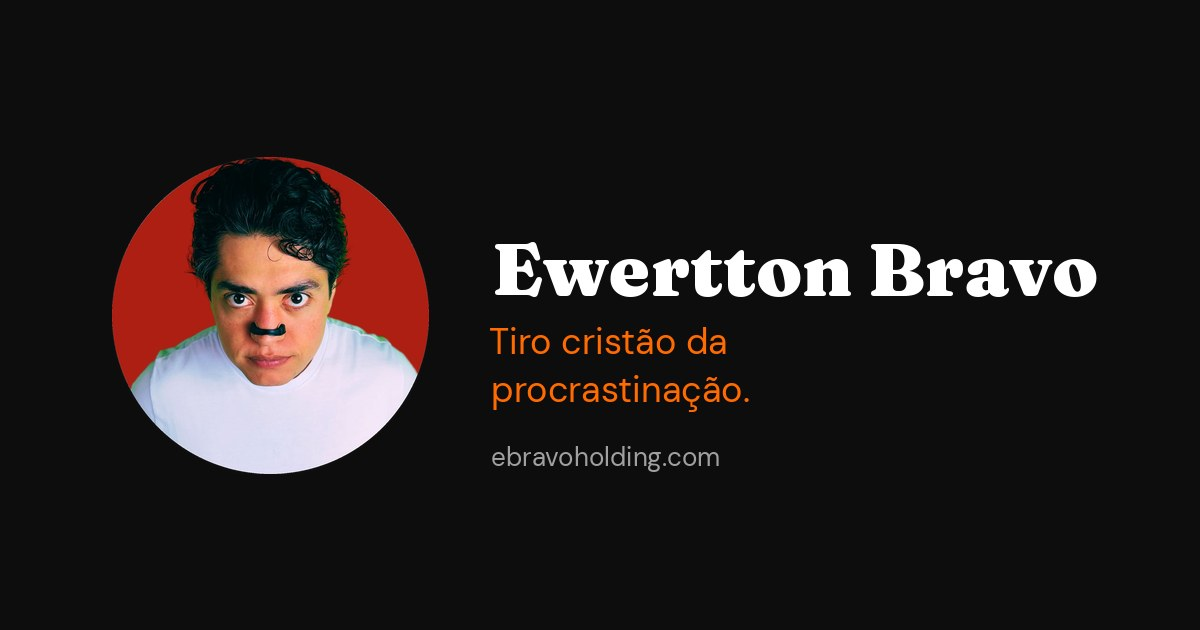
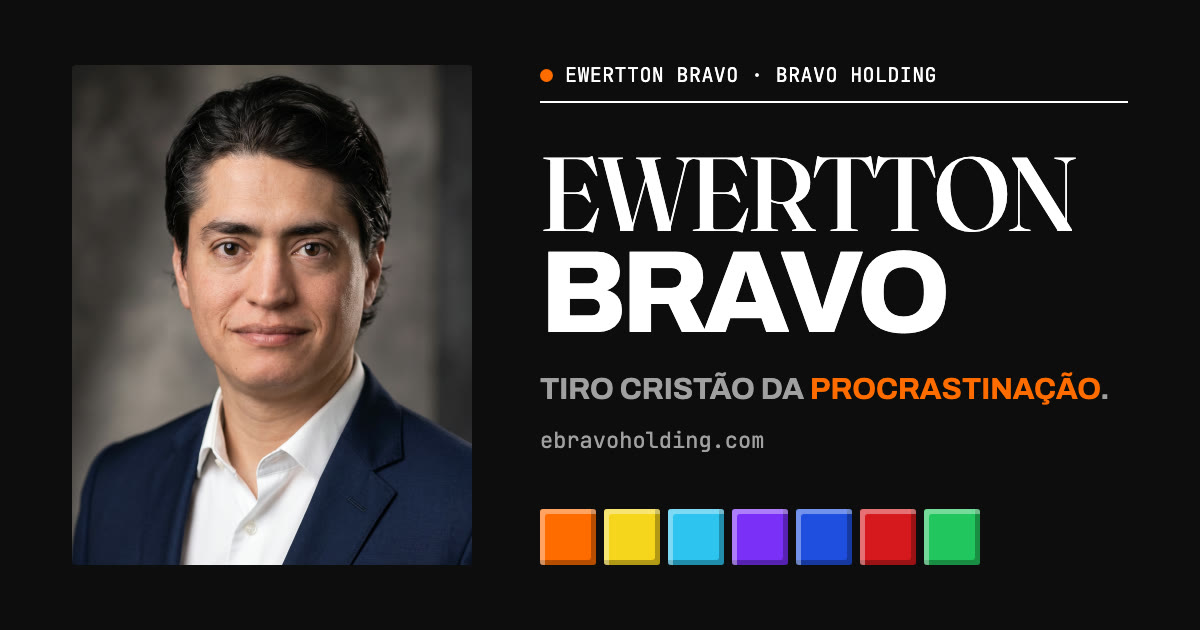
og-image na nova identidade
Foto de terno 4:5, nome em Fraunces + Archivo, tagline com acento laranja,
domínio em mono e as 7 peças do grid. URL versionada (?v=2) nas tags og e
twitter pra forçar as redes a buscarem a imagem nova.

diff --git a/index.html b/index.html
@@ -14,7 +14,7 @@
 <meta property="og:url" content="https://ebravoholding.com/">
 <meta property="og:title" content="Ewertton Bravo | Tiro cristão da procrastinação">
 <meta property="og:description" content="Diagnóstico gratuito, Desafio 7 Dias · O Talento Enterrado, Método Remiyah e Mentoria Mentorata em um só lugar.">
-<meta property="og:image" content="https://ebravoholding.com/og-image.jpg">
+<meta property="og:image" content="https://ebravoholding.com/og-image.jpg?v=2">
 <meta property="og:image:width" content="1200">
 <meta property="og:image:height" content="630">
 <meta property="og:locale" content="pt_BR">
@@ -23,7 +23,7 @@
 <meta name="twitter:card" content="summary_large_image">
 <meta name="twitter:title" content="Ewertton Bravo | Tiro cristão da procrastinação">
 <meta name="twitter:description" content="Diagnóstico gratuito, Desafio 7 Dias · O Talento Enterrado, Método Remiyah e Mentoria Mentorata em um só lugar.">
-<meta name="twitter:image" content="https://ebravoholding.com/og-image.jpg">
+<meta name="twitter:image" content="https://ebravoholding.com/og-image.jpg?v=2">
 
 <link rel="icon" href="/favicon/favicon.ico" sizes="any">
 <link rel="icon" type="image/svg+xml" href="/favicon/favicon.svg">
